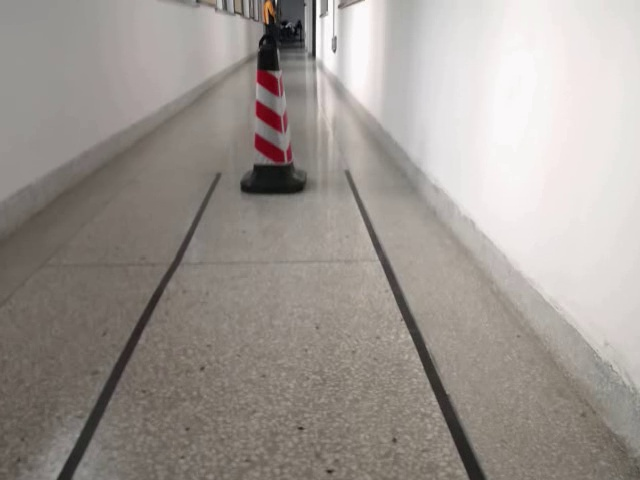
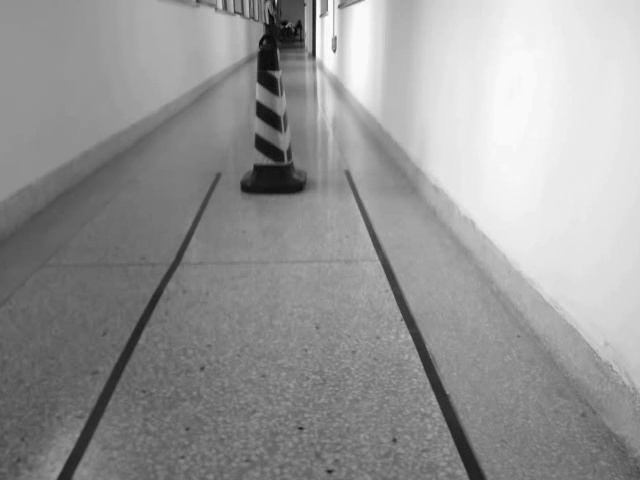
2021.12.24.18:37

Changed region(s): [[0.375, 0.125, 0.4688, 0.3438], [0.4062, 0.0, 0.4375, 0.0625]]

diff --git a/src/elude/elude.cpp b/src/elude/elude.cpp
@@ -5,6 +5,12 @@
 Eludeing::Eludeing(VideoCapture src):car_capture(src)
 {
     cout << "elude start" <<endl;
+    float invScaleFactor = 1.0f/scaleFactor;
+    mvInvScaleFactor.resize(nlevels);
+    mvImagePyramid.resize(nlevels);
+    mvInvScaleFactor[0]=1;
+    for(int i=1; i<nlevels; i++)
+        mvInvScaleFactor[i]=mvInvScaleFactor[i-1]*invScaleFactor;
 }
 
 void Eludeing::run()
@@ -17,27 +23,32 @@ void Eludeing::run()
 
     //SLAM
     //初始化
-    // VideoCapture cap;
-    // cap.open("../data/test.mp4");
-    // if(!cap.isOpened())//如果视频不能正常打开则返回
-    //     return;
+    int frame = car_capture.get(CV_CAP_PROP_FPS);
+    //int milliseconds = car_capture.get(cv2.CAP_PROP_POS_MSEC);
+    cout << "frame is " << frame << endl;
 
     Mat img_1;
     Mat img_2;
-    int frame = car_capture.get(CV_CAP_PROP_FPS);
-    cout << "frame is " << frame << endl;
-    //int milliseconds = car_capture.get(cv2.CAP_PROP_POS_MSEC);
     for (int i=0;i<30;i++)
     {
         car_capture>>img_1;
     }
+    if(img_1.channels()==3)
+        cvtColor(img_1, img_1, CV_RGB2GRAY);
+    imwrite ("../data/start.jpg",img_1);
+    ComputePyramid(img_1);
+    for (int level = 0; level < nlevels; ++level)
+    {
+        imwrite ("../data/"+ to_string(level)+".jpg",mvImagePyramid[level]);
+    }
     // Mat img_1=img_1(Rect(260,30,50,80));
     // car_capture>>img_1;
-    imwrite ("../data/start.jpg",img_1);
     for (int i=0;i<600;i++)
     {
         car_capture>>img_2;
     }
+    if(img_2.channels()==3)
+        cvtColor(img_2, img_2, CV_RGB2GRAY);
     // Mat img_2=img_2(Rect(440,30,50,80));
     imwrite ("../data/end.jpg",img_2);
     // car_capture>>img_2;
@@ -47,9 +58,6 @@ void Eludeing::run()
     // imshow ("start.jpg",img_1);
     // imshow ("end.jpg",img_2);
     // waitKey(0);
-
-    // Mat img_1 = imread ("../data/test.jpg",CV_LOAD_IMAGE_COLOR);
-    // Mat img_2 = imread ("../data/mask.jpg",CV_LOAD_IMAGE_COLOR);
 
     cout << "image's size: " << img_1.size() << endl;
     // resize (img_2, img_2, cv::Size(round(img_2.cols * 0.5), round(img_2.rows * 0.5)));
@@ -205,4 +213,23 @@ Point2d Eludeing::pixel2cam(const Point2d &p, const Mat &K) {
             (p.x - K.at<double>(0, 2)) / K.at<double>(0, 0),
             (p.y - K.at<double>(1, 2)) / K.at<double>(1, 1)
         );
+}
+
+void Eludeing::ComputePyramid(cv::Mat image)
+{
+    for (int level = 0; level < nlevels; ++level)
+    {
+        float scale = mvInvScaleFactor[level];
+        Size sz(cvRound((float)image.cols*scale), cvRound((float)image.rows*scale));
+        cout << sz << endl;
+
+        if( level != 0 )
+        {
+            resize(mvImagePyramid[level-1], mvImagePyramid[level], sz, 0, 0, INTER_LINEAR);
+        }
+        else
+        {
+            mvImagePyramid[level] = image.clone();
+        }
+    }
 }

diff --git a/src/elude/elude.h b/src/elude/elude.h
@@ -8,6 +8,7 @@
 #include <opencv2/highgui/highgui.hpp>
 #include "../serial/Serial.h"
 #include <mutex>
+#include <string>
 // #include <chrono>
 
 using namespace std;
@@ -22,8 +23,13 @@ public:
 
 private:
     VideoCapture car_capture;
+    void ComputePyramid(cv::Mat);
     Mat Image;  
     std::mutex mtx;
+    int nlevels = 5;
+    std::vector<float> mvInvScaleFactor;
+    std::vector<cv::Mat> mvImagePyramid;
+    double scaleFactor = 1.2;
     chrono::steady_clock::time_point t1;
     chrono::steady_clock::time_point t2;
     void pose_estimatiob_2d2d(
